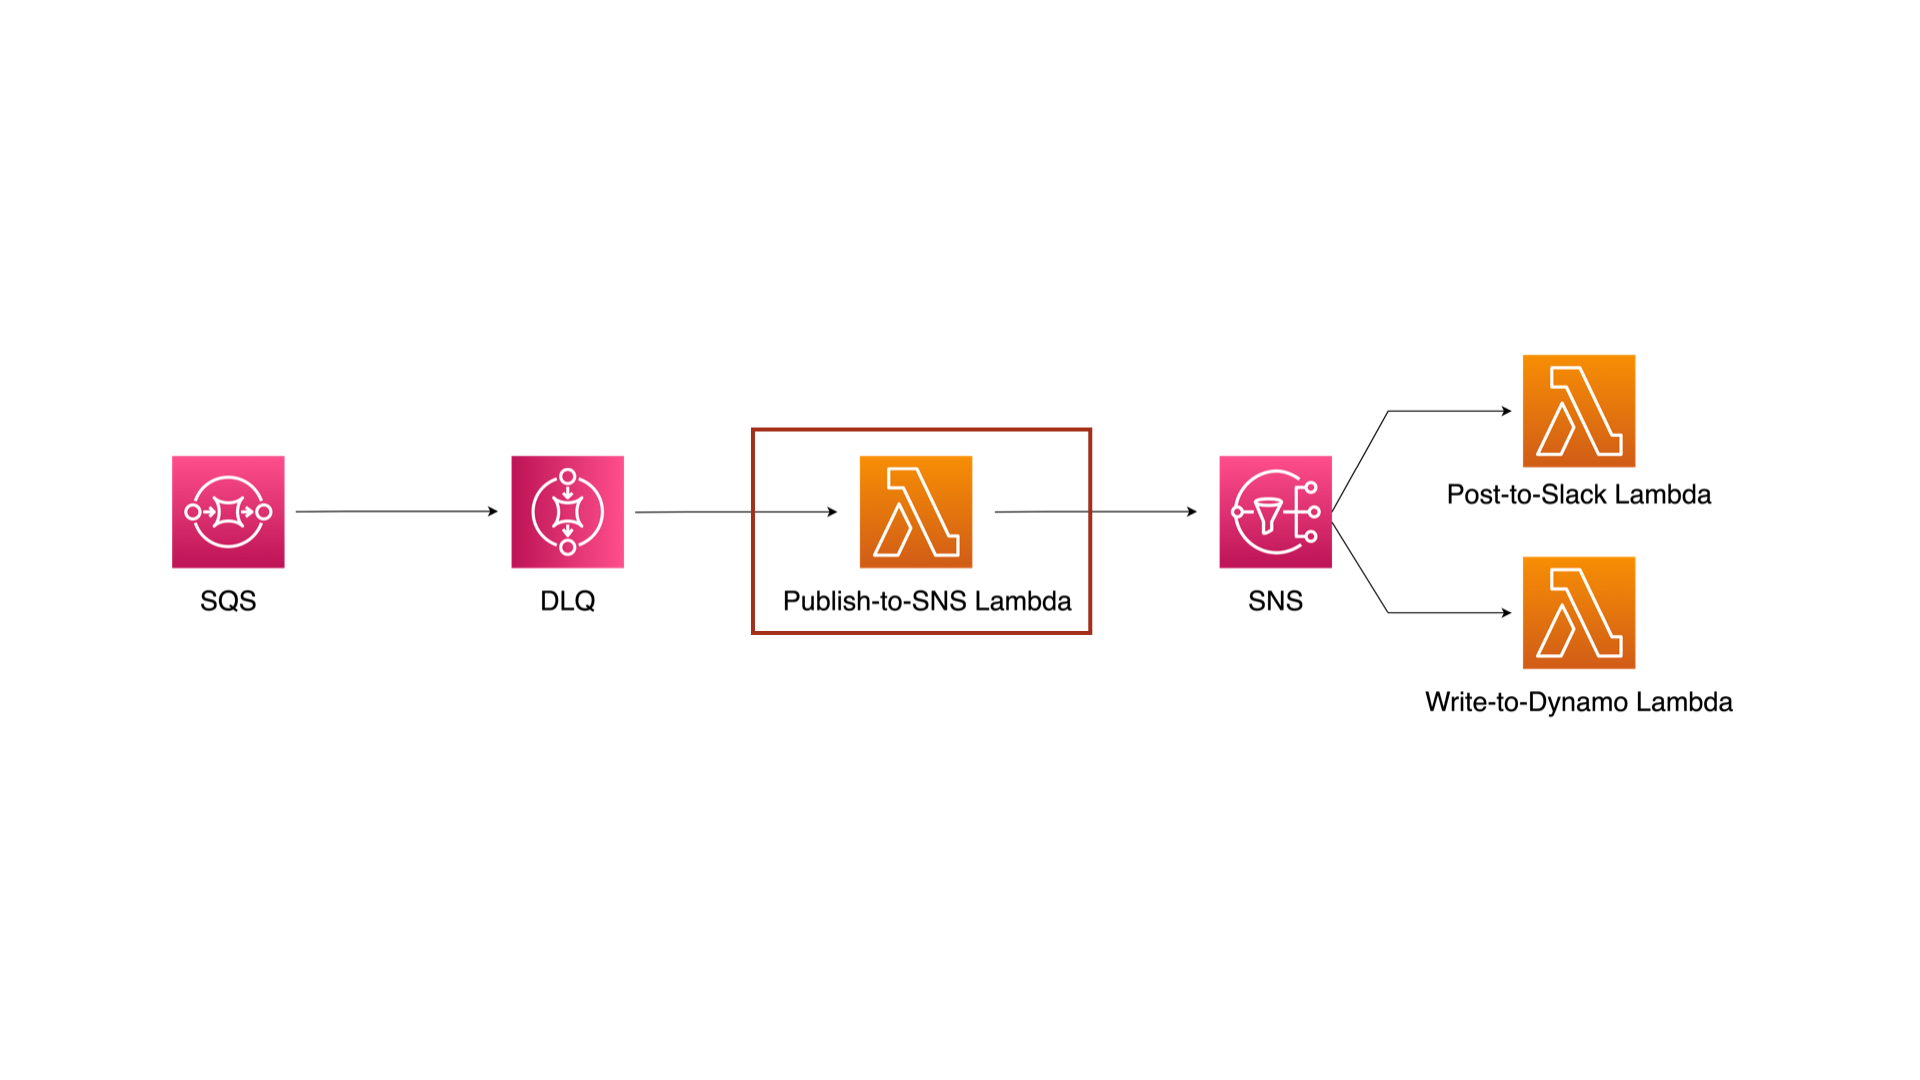
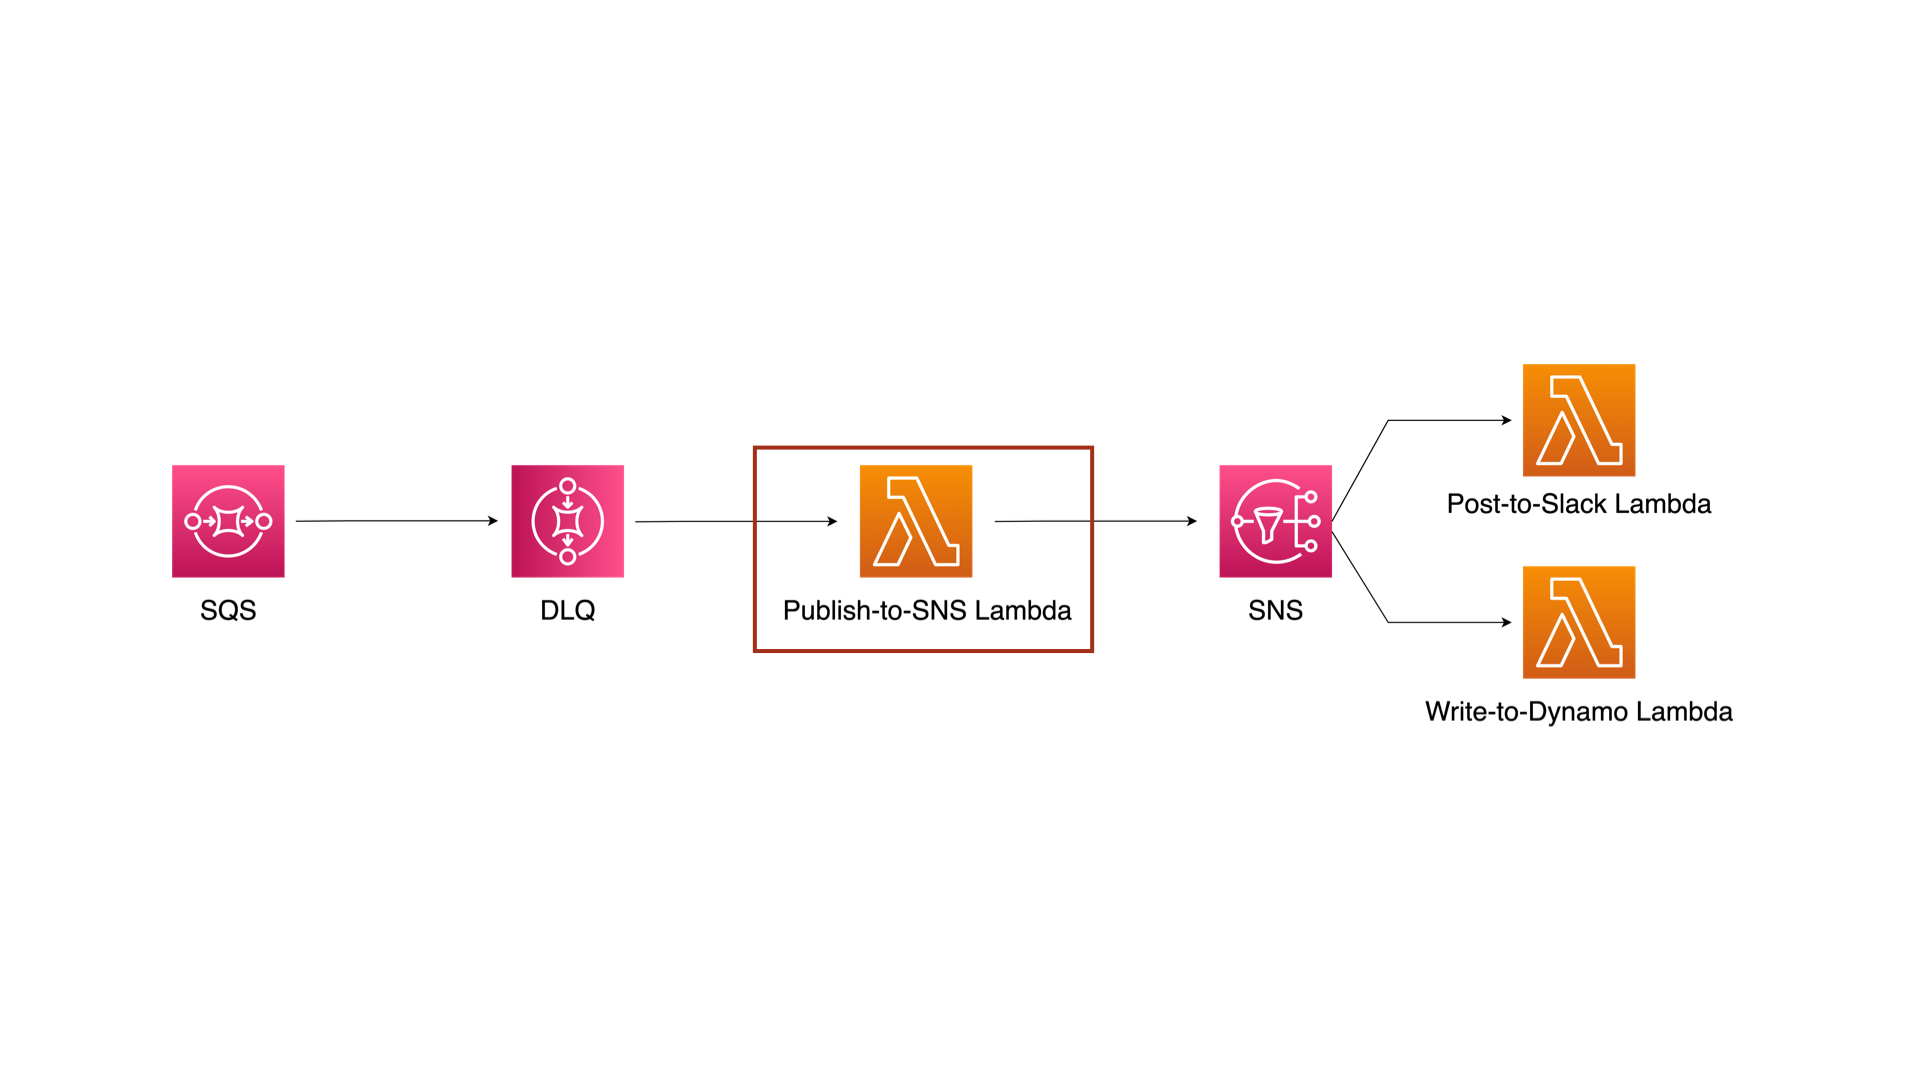
Better quality images added

Changed region(s): [[0.0938, 0.3972, 0.5938, 0.6111], [0.7188, 0.3056, 0.9062, 0.6722], [0.5312, 0.3972, 0.7188, 0.5806]]

diff --git a/index.html b/index.html
@@ -640,7 +640,7 @@
             programming language and data storage system that are most suitable for its function. 
             (Ref: https://martinfowler.com/articles/microservices.html)
           </p>
-          <img src="images/diagrams/1.1.png" />
+          <img src="images/diagrams/1.1.jpeg" />
           <p>
             Using microservices architecture however does increase the complexity of communication 
             within the application. While a monolithic application can use method/function invocations 
@@ -668,7 +668,7 @@
             is not affected. The producer can continue to add messages to the queue which will get 
             processed when the consumer recovers from the failure. 
           </p>
-          <img src="images/diagrams/1.2.png" />
+          <img src="images/diagrams/1.2.jpeg" />
           <h3 id="section-1-3">1.3 Queues</h3>
           <p>
             There are multiple options available for developers in need of a message queue system. 
@@ -711,7 +711,7 @@
             response has been received by the queue when the Visibility Timeout expires, the message becomes 
             visible again to all consumers.
           </p>
-          <img src="images/diagrams/1.4.png" />
+          <img src="images/diagrams/1.4.jpeg" />
           <p>
             An issue may arise when the consumer takes longer to process the message than the Visibility 
             timeout is set for. In that case, even if the consumer eventually completes processing the 
@@ -751,7 +751,7 @@
             service that they came into the ordering service. For these reasons, the BuyMe team decided that an 
             AWS standard SQS queue would be a good choice for the job. 
           </p>
-          <img src="images/diagrams/2.1.png" />
+          <img src="images/diagrams/2.1.jpeg" />
           <p>
             Any live data dashboards, such as stock prices ticking up and down
             on a website, are examples of realtime web applications. The same
@@ -782,7 +782,7 @@
             expect to see. They discover that a considerable number of messages still in the queue 
             should have been processed by the inventory service already. 
           </p>
-          <img src="images/diagrams/2.2.png" />
+          <img src="images/diagrams/2.2.jpeg" />
           <p>
             They could just delete the unprocessed messages but that would mean orders would go 
             unfulfilled causing customer dissatisfaction and profit loss. To try to alleviate the 
@@ -799,7 +799,7 @@
             messages will not remain in the queue and no messages will be lost during communication between 
             services.
           </p>
-          <img src="images/diagrams/3.1.png" />
+          <img src="images/diagrams/3.1.jpeg" />
           <h3 id="section-3-2">3.2 How is a DLQ configured?</h3>
           <p>
             When configuring a DLQ, it is imperative to specify the conditions under which the main queue 
@@ -826,7 +826,7 @@
             would allow the consumer enough chances to retry processing a message and would also avoid blocking 
             the queue for a significant amount of time.
           </p>
-          <img src="images/diagrams/3.2.png" />
+          <img src="images/diagrams/3.2.jpeg" />
 
           <h3 id="section-3-3">3.3 Importance of DLQs</h3>
           <p>
@@ -845,9 +845,9 @@
             succeed. It is a source of error-handling strategies ranging from simple reprocessing of messages by 
             the main queue to advanced analytics of message data for real-time insights.
           </p>
-          <img src="images/diagrams/3.3.png" />
+          <img src="images/diagrams/3.3.jpeg" />
 
-          <h3 id="section-3-4">3.4 The AWS DLQb</h3>
+          <h3 id="section-3-4">3.4 The AWS DLQ</h3>
           <p>
             Now that our engineering team at BuyMe has the DLQ in place and can view the poison messages, they are 
             ready to start debugging the problem. To begin with, they would like to examine the failed messages in 
@@ -914,12 +914,12 @@
             which accordingly offer more control, albeit at the potential
             expense of more configuration and deployment issues.
           </p>
-          <img src="images/diagrams/4.1.png" />
+          <img src="images/diagrams/4.1.jpeg" />
           <p>
             The BuyMe team is in a bit of a bind. Currently, they are restricted by the offerings of the AWS DLQ but can’t make 
             use of any of the available DLQ monitoring tools discussed above, missing out on extensive functionality.
           </p>
-          <img src="images/diagrams/4.2.png" />
+          <img src="images/diagrams/4.2.jpeg" />
           <p>
             So what options does the team at BuyMe have when they discover that a message has failed to be processed and 
             has been moved to the AWS DLQ? Currently, they are restricted by the offerings of the AWS DLQ and can’t make 
@@ -935,7 +935,7 @@
             infrastructure. When we compare Kuri with the functionality of the AWS DLQ and the capabilities of the existing 
             monitoring tools, Kuri meets the majority of the requirements and is compatible with AWS queues. 
           </p>
-          <img src="images/diagrams/5.1.png" />
+          <img src="images/diagrams/5.1.jpeg" />
           <p>Aside from being open-source, there are many reasons why Kuri would be a great tool for the BuyMe team.</p>
           <p>
             First, by providing just a handful of responses to command line questions posed by Kuri, a pipeline incorporating 
@@ -955,7 +955,7 @@
               <li>Delete and re-drive individual messages or perform batch delete and re-drive operations</li>
             </ul>
           </p>
-          <img src="images/diagrams/5.12.png" />
+          <img src="images/diagrams/5.12.jpeg" />
           <h3 id="section-5-2">5.2 Kuri installation</h3>
           <p>
             There are three steps our team at BuyMe will take to install and use Kuri. The first step is to install 
@@ -1015,7 +1015,7 @@
             down each high-level component into the AWS resources that make up the component. We will discuss the relationship 
             between those resources and how they function together to fulfill the responsibilities of the component.
           </p>
-          <img src="images/diagrams/6.1.png" />
+          <img src="images/diagrams/6.1.jpeg" />
           <h3 id="section-6-2">6.2 Inter-Service Communication</h3>
           <p>
             The Inter-Service Communication component consists of 3 resources: the user’s producer and consumer flanking an 
@@ -1055,7 +1055,7 @@
             At this point in our infrastructure, messages will be sent from the producer to the queue, the consumer will 
             poll for messages and try to process them. But what if messages are failing to be consumed?
           </p>
-          <img src="images/diagrams/6.2.png" />
+          <img src="images/diagrams/6.2.jpeg" />
           <h3 id="section-6-3">6.3 Failed Message Handling</h3>
           <p>
             This brings us to the next component in our infrastructure, the Failed Message Handling Component. This 
@@ -1085,7 +1085,7 @@
             need some way of alerting the developer of these messages and providing them a way to interact with them and 
             possibly resubmit them to the main queue.
           </p>
-          <img src="images/diagrams/6.3.png" />
+          <img src="images/diagrams/6.3.jpeg" />
           <h3 id="section-6-4">6.4 Fan-out</h3>
           <p>
             The Fan-out component is responsible for transporting a message from the DLQ and providing separate routes for 
@@ -1109,7 +1109,7 @@
             The SNS receives a message from the publish-to-SNS Lambda and passes a copy of it out to its subscribers. During 
             deployment, Kuri creates an SNS topic and adds two subscribers, the post-to-Slack and the write-to-Dynamo Lambdas.
           </p>
-          <img src="images/diagrams/6.8.png" />
+          <img src="images/diagrams/6.8.jpeg" />
           <h3 id="section-6-6">6.6 Lambdas</h3>
           <p>
             Before going into the specific functionality of the Lambda resources attached to the SNS topic, let’s examine the 
@@ -1139,7 +1139,7 @@
             for functions and provides the opportunity for expanding functionality in the future by adding another Lambda to subscribe 
             to the SNS topic.
           </p>
-          <img src="images/diagrams/6.11.png" />
+          <img src="images/diagrams/6.11.jpeg" />
           <h3 id="section-6-9">6.9 Notification</h3>
           <p>
             The next component, Notification, is one of two branches of the Fan-out component. This component consists of Slack which 
@@ -1162,7 +1162,7 @@
             or production environment without having to constantly keep an eye on the Kuri dashboard. These push notifications 
             can help developers keep the mean time to resolution down in the case of any issues relating to failed messages.
           </p>
-          <img src="images/diagrams/6.13.png" />
+          <img src="images/diagrams/6.13.jpeg" />
           <h3 id="section-6-11">6.11 Persistence</h3>
           <p>
             The second component that branches from the Fan-out component, Persistence, consists of DynamoDB which stores 
@@ -1184,7 +1184,7 @@
             key-value NoSQL database designed to run high-performance applications at any scale. Using DynamoDB allows 
             Kuri to store DLQ messages without compromising the scalability and throughput of the entire application.
           </p>
-          <img src="images/diagrams/6.15.png" />
+          <img src="images/diagrams/6.15.jpeg" />
           <p>
             With the dead-letter messages safely stored in DynamoDB and Slack notifications established, how can a 
             Kuri user take action when they receive a DLQ message notification? This brings us to the final component, User Interaction.
@@ -1202,7 +1202,7 @@
             The application server is built primarily with Node.js and the Express framework. This combined with AWS’s DynamoDB 
             SDK allows Kuri to provide RESTful API routes that are consumed with the React-built dashboard.
           </p>
-          <img src="images/diagrams/6.17.png" />
+          <img src="images/diagrams/6.17.jpeg" />
           <p>
             In terms of design decisions for the application server, we decided to go with REST APIs as we needed to interact 
             with the database and provide the developer with a dashboard that makes it easy to interact with their DLQ messages.
@@ -1237,7 +1237,7 @@
             three Lambdas, a Dynamo table, and an S3 bucket. Additionally, an AWS IAM Role provisions 7 policy permissions relating to 
             these resources. To sum up, Kuri automates the provisioning of a total of 17 resources for the developer.
           </p>
-          <img src="images/diagrams/6.19.png" />
+          <img src="images/diagrams/6.19.jpeg" />
           <p>
             Each piece of Kuri’s infrastructure has been connected using the AWS Software Development Kit (SDK) to provide developers 
             with a DLQ pipeline to improve the development and maintenance experience in their projects. For a developer that is unfamiliar 
@@ -1282,7 +1282,7 @@
             especially compared to its counterpart, the SDK. Our goal for Kuri was to create a fast and simple command line 
             tool that would allow users to have Kuri set up and ready to go in a matter of minutes.
           </p>
-          <img src="images/diagrams/7.1.png" />
+          <img src="images/diagrams/7.1.jpeg" />
           <p>
             In light of these concerns, we decided to run a spike to choose which 
             developer kit would be best suited to fulfill the design goals we had in 
@@ -1329,7 +1329,7 @@
             manually code some of the infrastructure components that the CDK would have 
             implemented under the hood.
           </p>
-          <img src="images/diagrams/7.11.png" />
+          <img src="images/diagrams/7.11.jpeg" />
           <p>
             Our basic architecture includes an SQS queue, SNS topic, DynamoDB table, and 
             Lambdas/subscriptions to either poll the queue or receive from the topic. Using 
@@ -1451,7 +1451,7 @@
             message from the DLQ, then sending the POST request to the user-provided Slack path with the message 
             as the body of the request.
           </p>
-          <img src="images/diagrams/7.3.png" />
+          <img src="images/diagrams/7.3.jpeg" />
           <h3 id="section-7-4">7.4 Problem using a Lambda to send the Slack notification</h3>
           <p>
             Using a Lambda to send the notification caused some problems with our current architecture. 
@@ -1480,7 +1480,7 @@
             to the SNS topic. Now each Lambda has a sole responsibility and it will be easier to add additional 
             features to Kuri at a later date -  simply by writing a new Lambda and subscribing it to the SNS topic.
           </p>
-          <img src="images/diagrams/7.4.png" />
+          <img src="images/diagrams/7.4.jpeg" />
           <h3 id="section-7-5">7.5 AWS Message Attributes</h3>
           <p>
             When sending a message to an SQS queue the user can add up to 10 attributes that are stored as 
@@ -1514,7 +1514,7 @@
             peculiar design choice which meant that SNS topic attributes with the type ‘Number’ are not 
             compatible with AWS Lambdas.
           </p>
-          <img src="images/diagrams/7.5.png" />
+          <img src="images/diagrams/7.5.jpeg" />
           <p>
             As maintaining message integrity is a cornerstone of our Kuri application, we needed to find a 
             solution to this design choice by AWS. The problem was clear, anytime an attribute had the type 
@@ -1535,7 +1535,7 @@
             and make any necessary changes to the type attribute. Using this method we were able to achieve 
             a 100% rate of type retention throughout our entire pipeline.
           </p>
-          <img src="images/diagrams/7.51.png" />
+          <img src="images/diagrams/7.51.jpeg" />
 
           <!-- Section 8 -->
           <h2 id="section-8">8. Future Work</h2>

diff --git a/stylesheets/style.css b/stylesheets/style.css
@@ -356,9 +356,9 @@ body {
   font-style: italic;
 }
 
-/* #case-study img {
+#case-study img {
   width: 700px;
-} */
+}
 
 .prose code {
   background-color: var(--gray-100);
